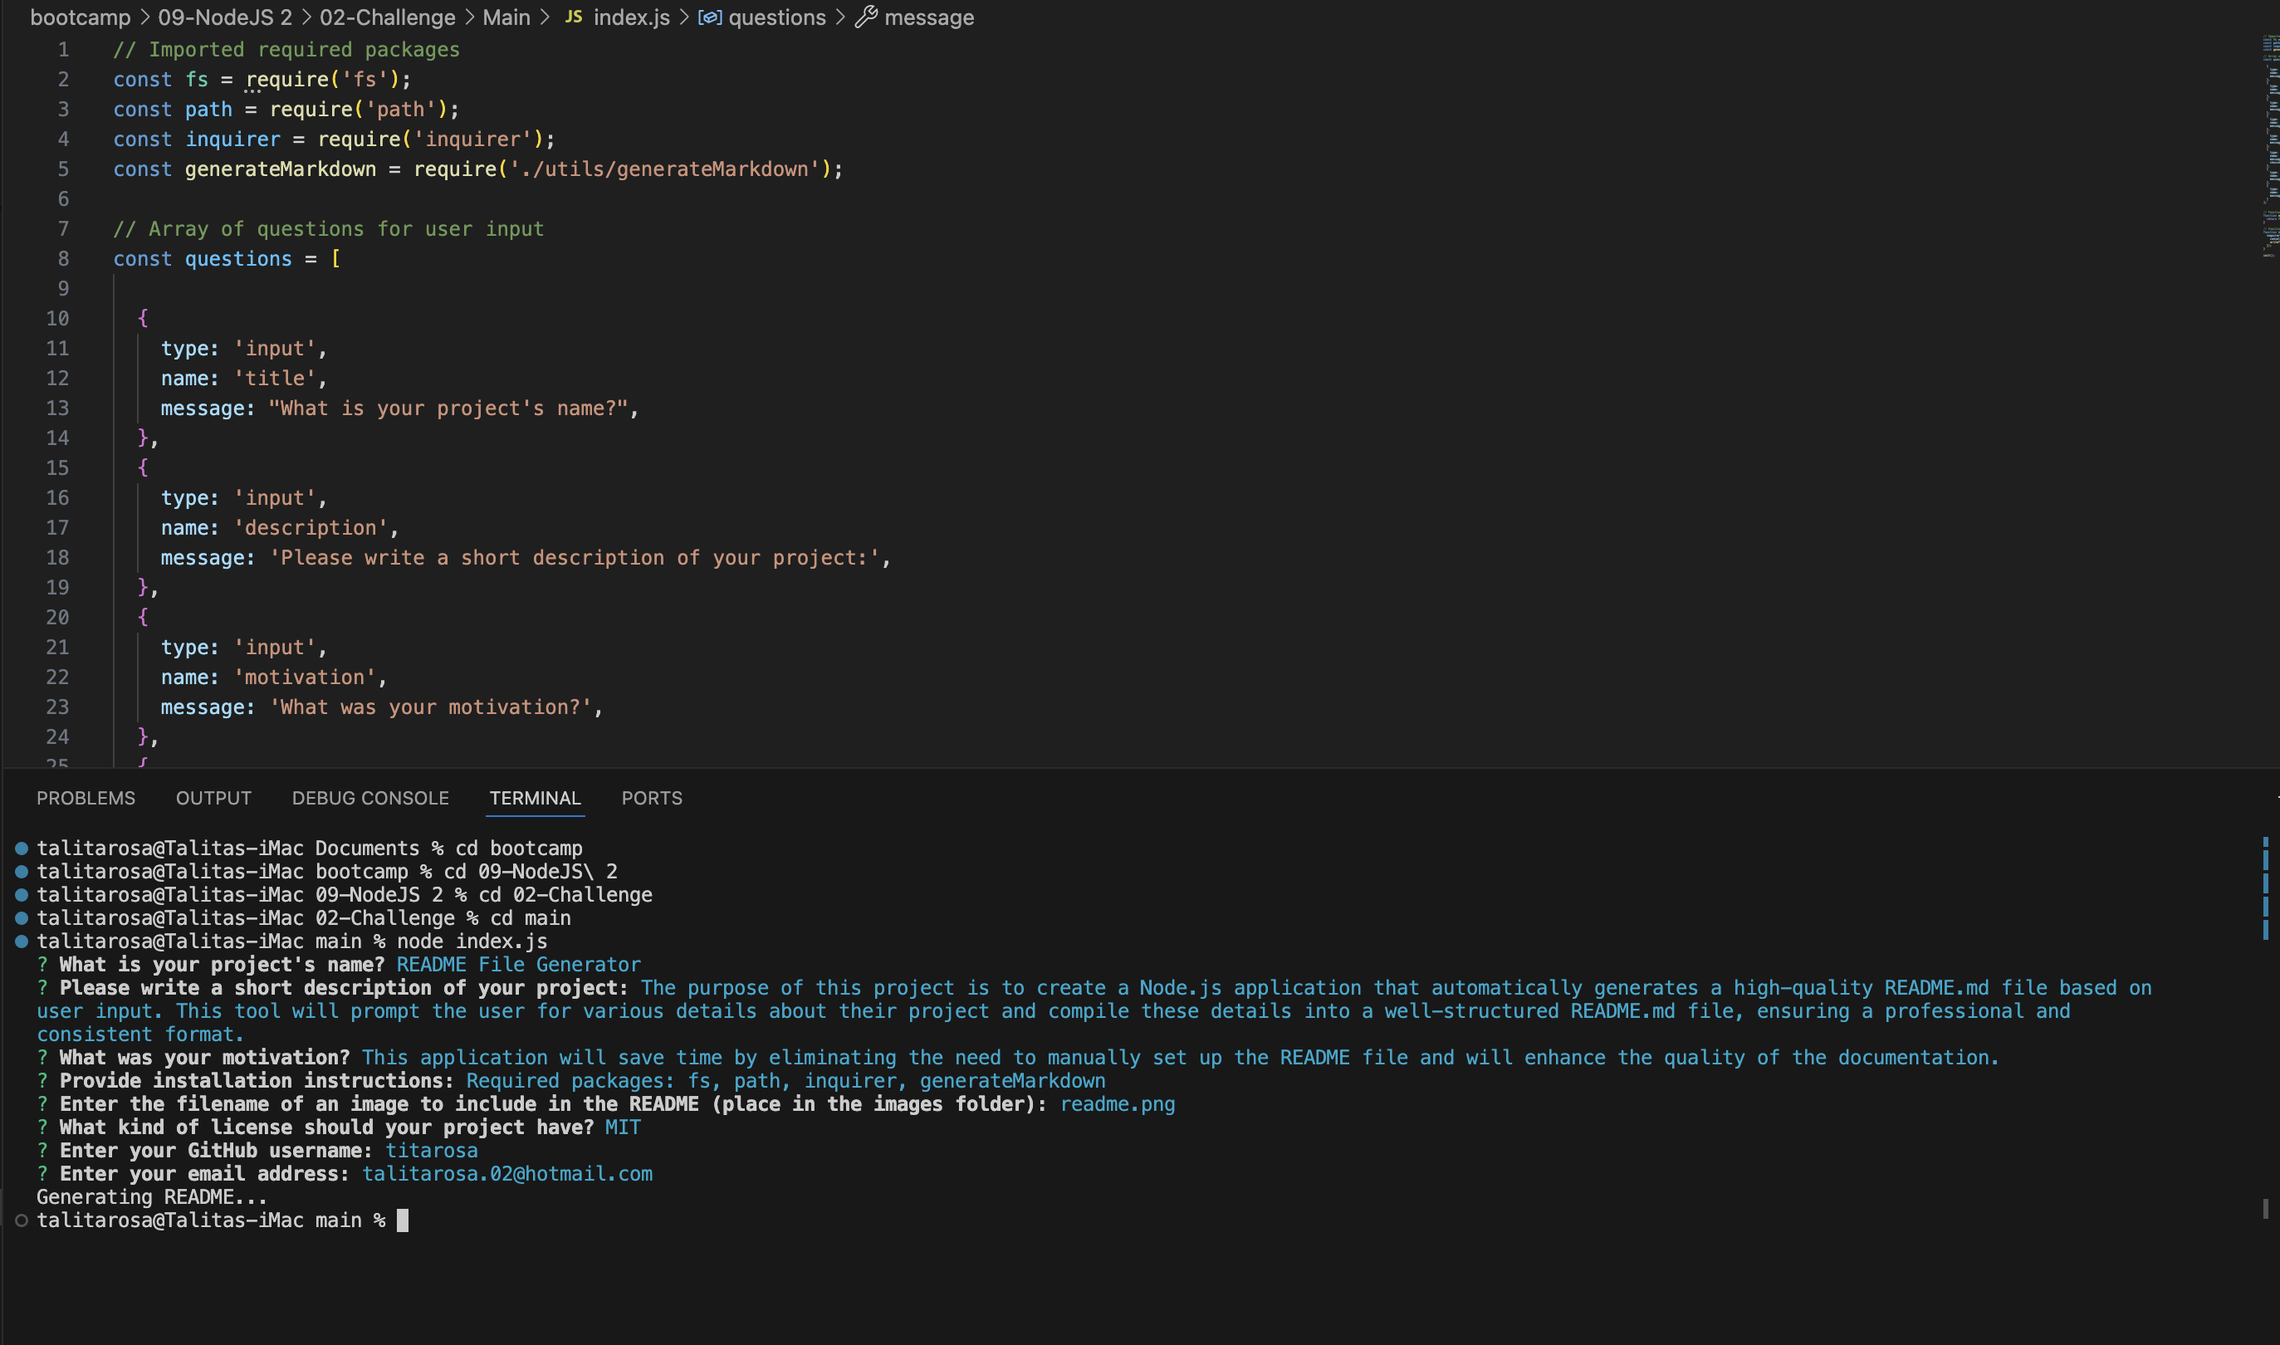
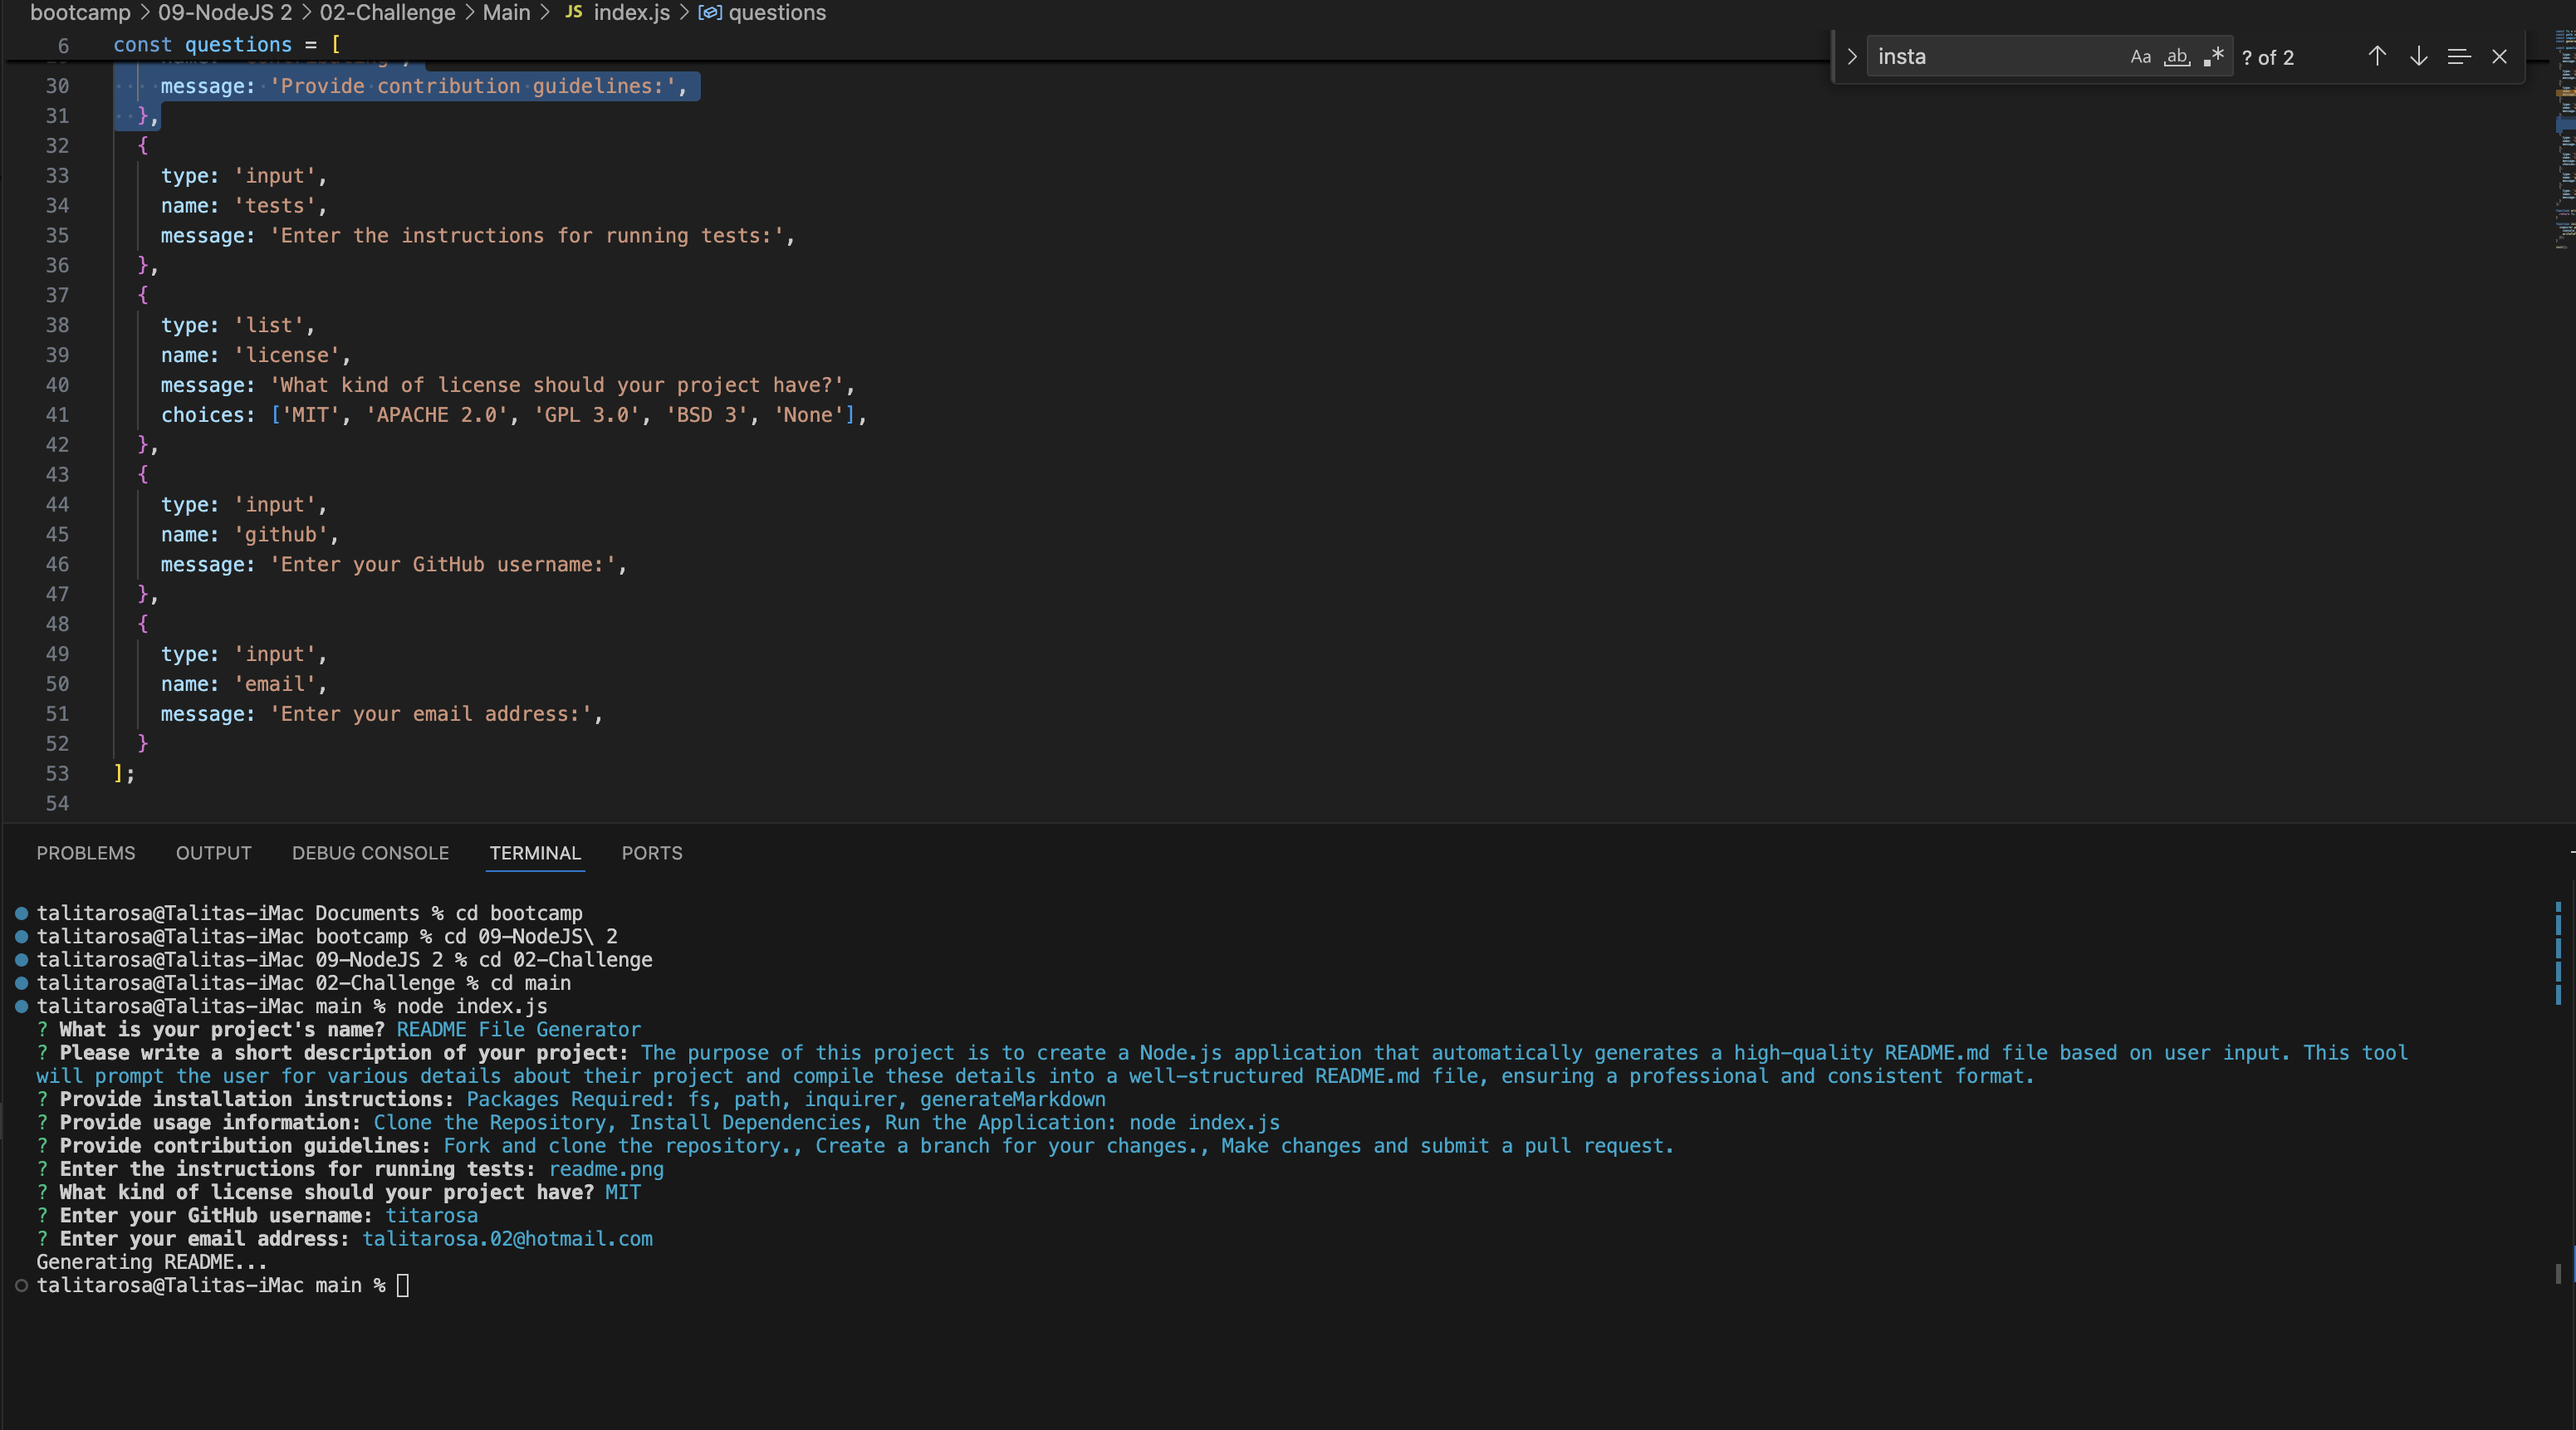
Adding more inofmration to readme file.

diff --git a/index.js b/index.js
@@ -1,12 +1,9 @@
-// Imported required packages
 const fs = require('fs');
 const path = require('path');
 const inquirer = require('inquirer');
 const generateMarkdown = require('./utils/generateMarkdown');
 
-// Array of questions for user input
 const questions = [
-
   {
     type: 'input',
     name: 'title',
@@ -19,18 +16,28 @@ const questions = [
   },
   {
     type: 'input',
-    name: 'motivation',
-    message: 'What was your motivation?',
-  },
-  {
-    type: 'input',
     name: 'installation',
     message: 'Provide installation instructions:',
   },
   {
     type: 'input',
-    name: 'image',
-    message: 'Enter the filename of an image to include in the README (place in the images folder):',
+    name: 'usage',
+    message: 'Provide usage information:',
+  },
+  {
+    type: 'input',
+    name: 'contributing',
+    message: 'Provide contribution guidelines:',
+  },
+  {
+    type: 'input',
+    name: 'tests',
+    message: 'Enter the application running tests:',
+  },
+  {
+    type: 'input',
+    name: 'video',
+    message: 'Enter the video link with the application mockup:',
   },
   {
     type: 'list',
@@ -50,13 +57,10 @@ const questions = [
   }
 ];
 
-
-// Function to write README file using the user input
 function writeToFile(fileName, data) {
   return fs.writeFileSync(path.join(process.cwd(), fileName), data);
 }
 
-// Function to initialize app
 function init() {
   inquirer.prompt(questions).then((inquirerResponses) => {
     console.log('Generating README...');

diff --git a/utils/generateMarkdown.js b/utils/generateMarkdown.js
@@ -2,22 +2,41 @@ function generateMarkdown(data) {
   return `
 # ${data.title}
 
+## Badges
+${data.license ? `![License Badge](https://img.shields.io/badge/license-${encodeURIComponent(data.license)}-blue)` : ''}
+
 ## Description
 ${data.description || 'N/A'}
 
-## Motivation
-${data.motivation || 'N/A'}
-
 ## Table of Contents
 ${data.installation ? '- [Installation](#installation)' : ''}
+${data.usage ? '- [Usage](#usage)' : ''}
+${data.contributing ? '- [Contributing](#contributing)' : ''}
+${data.tests ? '- [Tests](#tests)' : ''}
+${data.video ? '- [Video](#video)' : ''}
 ${data.license ? '- [License](#license)' : ''}
-${data.image ? '- [Image](#image)' : ''}
+- [Questions](#questions)
+
+## Installation
+${data.installation || 'N/A'}
+
+## Usage
+${data.usage || 'N/A'}
+
+## Contributing
+${data.contributing || 'N/A'}
+
+## Tests
+${data.tests || 'N/A'}
+[Node Application Terminal](./images/${data.image || 'placeholder.png'})
+
+
+
+## Video
+${data.video ? `[Watch Video Here](${data.video})` : 'N/A'}
 
 ## License
 This project is licensed under the ${data.license || 'N/A'} license.
-
-## Image
-![Image Description](./images/${data.image || 'placeholder.png'})
 
 ## Questions
 If you have any questions about the repo, open an issue or contact me directly at ${data.email || 'N/A'}. You can find more of my work at [${data.github || 'N/A'}](https://github.com/${data.github || ''}).

diff --git a/README.md b/README.md
@@ -1,22 +1,41 @@
 
 # README File Generator
 
+## Badges
+![License Badge](https://img.shields.io/badge/license-MIT-blue)
+
 ## Description
 The purpose of this project is to create a Node.js application that automatically generates a high-quality README.md file based on user input. This tool will prompt the user for various details about their project and compile these details into a well-structured README.md file, ensuring a professional and consistent format.
 
-## Motivation
-This application will save time by eliminating the need to manually set up the README file and will enhance the quality of the documentation.
-
 ## Table of Contents
 - [Installation](#installation)
+- [Usage](#usage)
+- [Contributing](#contributing)
+- [Tests](#tests)
+- [Video](#video)
 - [License](#license)
-- [Image](#image)
+- [Questions](#questions)
+
+## Installation
+Packages Required: fs, path, inquirer, generateMarkdown
+
+## Usage
+1. Clone the Repository 2. Install Dependencies 3.Run the Application: node index.js
+
+## Contributing
+Fork and clone the repository, Create a branch for your changes., Make changes and submit a pull request.
+
+## Tests
+readme.png
+[Node Application Terminal](./images/placeholder.png)
+
+
+
+## Video
+[Watch Video Here](https://drive.google.com/file/d/1PaWu2HhTMgc9Qx-BlXBrp4MnSaEPVaTn/view?usp=sharing)
 
 ## License
 This project is licensed under the MIT license.
-
-## Image
-![Image Description](./images/readme.png)
 
 ## Questions
 If you have any questions about the repo, open an issue or contact me directly at talitarosa.02@hotmail.com. You can find more of my work at [titarosa](https://github.com/titarosa).
